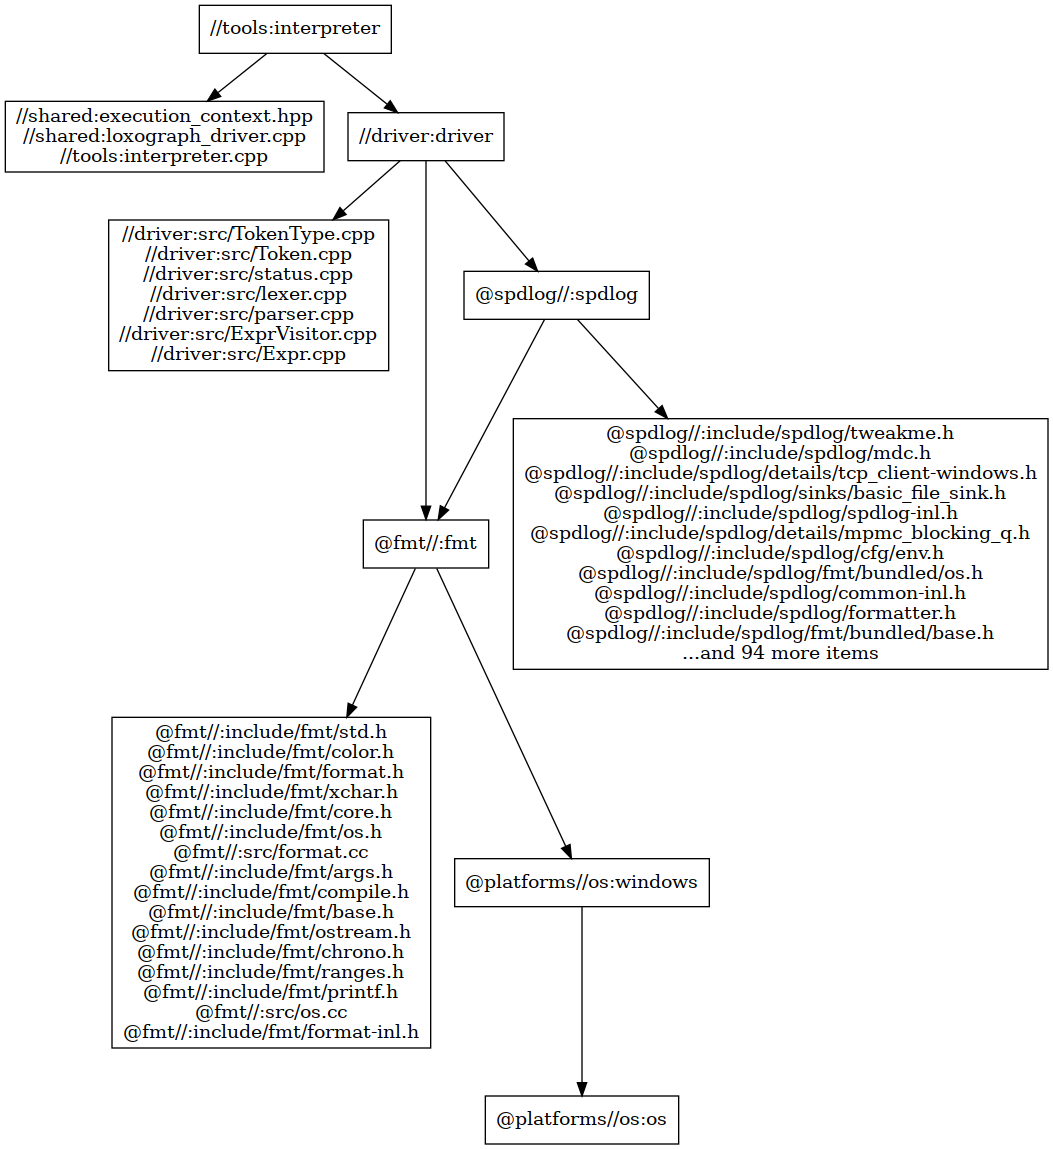
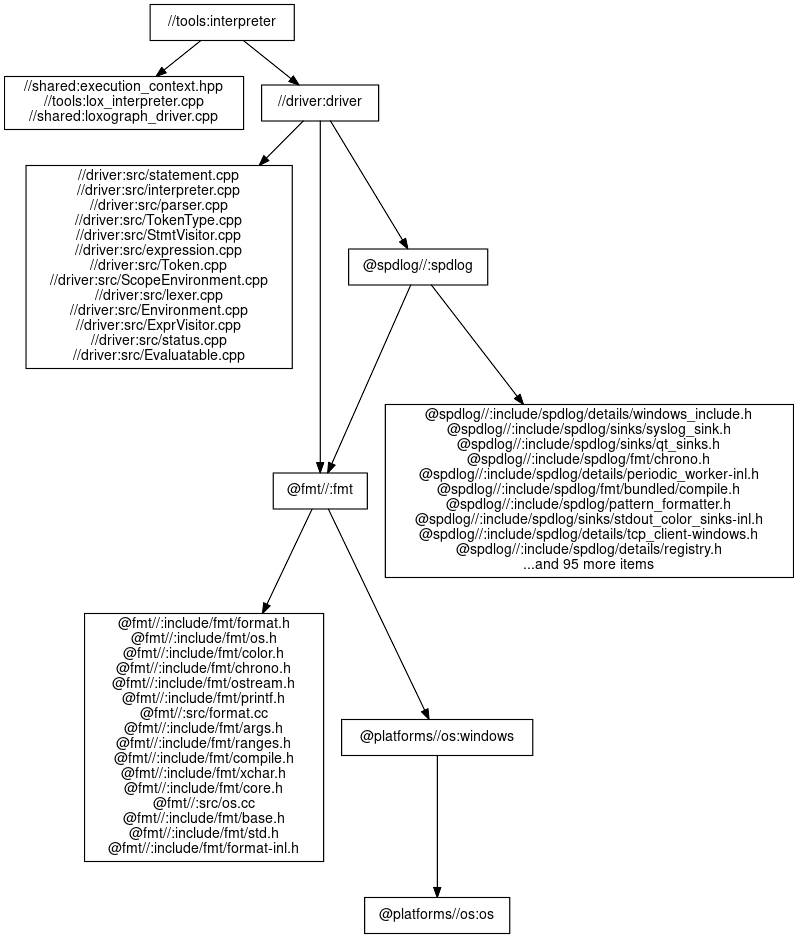
regroup code

diff --git a/driver/src/interpreter.cpp b/driver/src/interpreter.cpp
@@ -2,6 +2,7 @@
 #include <memory>
 #include <typeinfo>
 
+#include "Evaluatable.hpp"
 #include "config.hpp"
 #include "utils.hpp"
 #include "loxo_fwd.hpp"
@@ -66,11 +67,11 @@ auto interpreter::visit_impl(const statement::Variable &stmt) const
       return eval_res;
     contract_assert(!!std::any_cast<string_view_type>(&stmt.name.literal),
                     1,
-                    "variable name should be a string");
+                    "variable name should be a string")
     dbg(info,
         "variable name: {}, value: {}",
         std::any_cast<string_view_type>(stmt.name.literal),
-        expr_res.underlying_string());
+        expr_res.underlying_string())
     // string view fgailed again; not null-terminated
     auto res = env->add(
         stmt.name.to_string(utils::kTokenOnly), expr_res, stmt.name.line);
@@ -79,8 +80,8 @@ auto interpreter::visit_impl(const statement::Variable &stmt) const
   }
   // if no initializer, it's a nil value.
   auto res = env->add(stmt.name.to_string(utils::kTokenOnly),
-                     evaluation::NilValue,
-                     stmt.name.line);
+                      evaluation::NilValue,
+                      stmt.name.line);
   expr_res.emplace<utils::Monostate>();
   return res;
 }
@@ -139,7 +140,7 @@ auto interpreter::visit_impl(const expression::Literal &expr) const
   dbg(info, "literal type: {}", expr.literal.type);
   if (expr.literal.type.type == TokenType::kMonostate) {
     dbg(critical, "should not happen.");
-    contract_assert(false);
+    contract_assert(false)
     return {};
   }
   if (expr.literal.type.type == TokenType::kNil) {
@@ -270,8 +271,8 @@ auto interpreter::visit_impl(const expression::Assignment &expr) const
     return {evaluation::Error{"Error in assignment"s, expr.name.line}};
 
   if (!env->reassign(expr.name.to_string(utils::FormatPolicy::kTokenOnly),
-                    expr_res,
-                    expr.name.line)
+                     expr_res,
+                     expr.name.line)
            .ok())
     return {evaluation::Error{
         utils::format("Undefined variable '{}'.",

diff --git a/driver/include/Monostate.hpp b/driver/include/Monostate.hpp
@@ -1,0 +1,47 @@
+#pragma once
+#include <compare>
+#include <string>
+#include <string_view>
+
+#include "config.hpp"
+#include "loxo_fwd.hpp"
+#include "utils.hpp"
+
+namespace net::ancillarycat::utils {
+/// @brief Represents a stateless type that can be used as a placeholder
+/// @implements Printable, Viewable
+/// @remark Different from `std::monostate`, this class implements two traits
+/// which can be extremely important in my @link Variant @endlink class.
+class Monostate final : public Printable, public Viewable {
+public:
+  inline consteval Monostate() = default;
+  inline virtual ~Monostate() override = default;
+  inline constexpr Monostate(const Monostate &) {}
+  inline constexpr Monostate(Monostate &&) noexcept {}
+  inline constexpr auto operator=(const Monostate &) -> Monostate & {
+    return *this;
+  }
+  inline constexpr auto operator=(Monostate &&) noexcept -> Monostate & {
+    return *this;
+  }
+
+private:
+  inline constexpr auto to_string_impl(const FormatPolicy &) const
+      -> string_type override {
+    return {};
+  }
+  inline constexpr auto to_string_view_impl(const FormatPolicy &) const
+      -> string_view_type override {
+    return {};
+  }
+  friend inline consteval auto operator==(const Monostate &,
+                                          const Monostate &) noexcept -> bool {
+    return true;
+  }
+  friend inline consteval auto operator<=>(const Monostate &,
+                                           const Monostate &) noexcept
+      -> std::strong_ordering {
+    return std::strong_ordering::equal;
+  }
+};
+} // namespace net::ancillarycat::utils

diff --git a/driver/include/loxo_fwd.hpp b/driver/include/loxo_fwd.hpp
@@ -4,20 +4,33 @@
 #include <iostream>
 #include <string>
 #include <string_view>
+#include <tuple>
+#include <type_traits>
 
 #include "config.hpp"
 
 namespace net::ancillarycat::utils {
-template <typename... Types> class Variant;
-class Status;
-/// @brief represents a value that can be stored in a @link StatusOr @endlink object
+class Monostate;
+/// @brief a concept that checks if the types are variantable for my custom
+/// @link Variant @endlink class,
+/// where the first type must be @link Monostate @endlink
+/// @tparam Types the types to check
+template <typename... Types>
+concept Variantable = requires {
+  std::is_same_v<std::tuple_element_t<0, std::tuple<Types...>>, Monostate>;
+};
+/// @brief represents a value that can be stored in a
+/// @link StatusOr @endlink object
 /// @tparam Ty the type of the value
-/// @remarks similiar to Microsoft's @link std::_SMF_control @endlink class, which was
-/// used in @link std::optional @endlink
+/// @remarks similiar to Microsoft's @link std::_SMF_control @endlink class,
+/// which was used in @link std::optional @endlink
 template <typename Ty>
 concept Storable = std::conjunction_v<std::is_default_constructible<Ty>,
                                       std::is_nothrow_destructible<Ty>,
                                       std::is_nothrow_constructible<Ty>>;
+
+template <Variantable... Types> class Variant;
+class Status;
 template <Storable Ty> class StatusOr;
 class file_reader;
 using string = ::std::string;

diff --git a/driver/include/utils.hpp b/driver/include/utils.hpp
@@ -63,7 +63,7 @@ inline auto get_if(const std::any &literal) -> decltype(auto)
           "\033[033mNote: this lexer treat all number as long double; meybe "
           "you "
           "accidentally passed an integer?\033[0m");
-    });
+    })
 
   return ptr;
 }
@@ -128,28 +128,9 @@ private:
   virtual auto to_string_view_impl(const FormatPolicy &) const
       -> string_view_type = 0;
 };
-class Monostate final : public Printable, public Viewable {
-  auto to_string_impl(const FormatPolicy &) const -> string_type override {
-    return ""s;
-  }
-  auto to_string_view_impl(const FormatPolicy &) const
-      -> string_view_type override {
-    return ""sv;
-  }
-};
-LOXO_NODISCARD_MSG(Monostate)
-inline consteval bool operator==(const Monostate &,
-                                 const Monostate &) noexcept {
-  return true;
-}
-LOXO_NODISCARD_MSG(Monostate)
-inline consteval std::strong_ordering operator<=>(const Monostate &,
-                                                  const Monostate &) noexcept {
-  return std::strong_ordering::equal;
-}
 class VisitorBase : virtual public Printable {
 public:
-  using variant_type = Variant<net::ancillarycat::utils::Monostate,
+  using variant_type = Variant<::net::ancillarycat::utils::Monostate,
                                loxograph::evaluation::Boolean,
                                loxograph::evaluation::Nil,
                                loxograph::evaluation::Number,

diff --git a/driver/include/Variant.hpp b/driver/include/Variant.hpp
@@ -10,13 +10,14 @@
 #include "config.hpp"
 #include "loxo_fwd.hpp"
 #include "utils.hpp"
+#include "Monostate.hpp"
 
 namespace net::ancillarycat::utils {
 /// @brief A simple variant wrapper class around @link std::variant @endlink for convenience when evaluating
 /// expressions, especially when the operation was `to_string` or check the
 /// type's name when debugging.
 /// @note exception-free variant wrapper
-template <typename... Types> class Variant : public Printable, Viewable {
+template <Variantable... Types> class Variant : public Printable, Viewable {
 public:
   using variant_type = std::variant<Types...>;
 
@@ -39,7 +40,7 @@ public:
     using ReturnType = decltype(std::forward<Callable>(callable)(
         std::declval<variant_type>()));
     return self.is_valid()
-               ? std::visit(std::forward<Callable>(callable), self.my_variant)
+               ? static_cast<ReturnType>(std::visit(std::forward<Callable>(callable), self.my_variant))
                : ReturnType{};
   }
   string_view_type type_name() const {

diff --git a/driver/include/Environment.hpp b/driver/include/Environment.hpp
@@ -48,8 +48,16 @@ private:
 };
 auto Environment::find(this auto &&self, const string_type &name)
     -> decltype(self.current->find(name)) {
-  if (auto it = self.current->find(name))
+  if (auto it = self.current->find(name)) {
+    dbg_block(if (self.parent.expired()) return nullptr;
+              if (auto another_it = self.parent.lock()->find(name)) {
+                dbg(warn,
+                    "variable '{}' is shadowed; previously declared at line {}",
+                    name,
+                    (*another_it)->second.second);
+              })
     return {it};
+  }
 
   if (auto enclosing = self.parent.lock())
     return enclosing->find(name);

diff --git a/driver/include/config.hpp b/driver/include/config.hpp
@@ -63,7 +63,7 @@ struct fmt::formatter<std::filesystem::path> : fmt::formatter<std::string> {
   }
 };
 #    define LOXOGRAPH_STACKTRACE                                               \
-      ::std::format("\n{}", ::std::stacktrace::current())
+      (::std::format("\n{}", ::std::stacktrace::current()))
 #  else
 #    include <fmt/format.h>
 template <>
